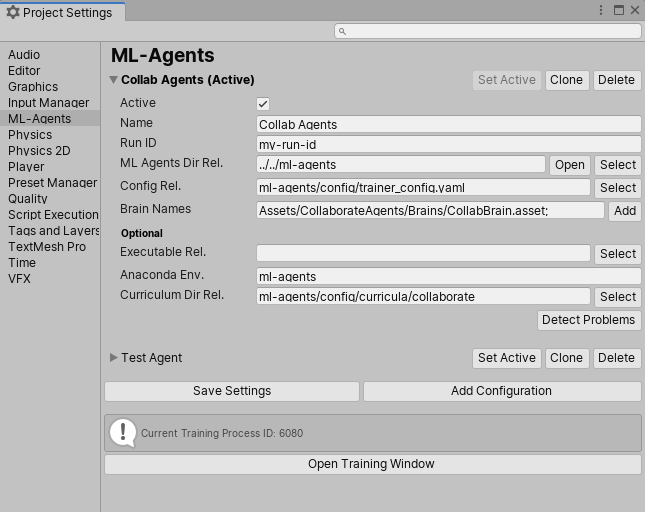
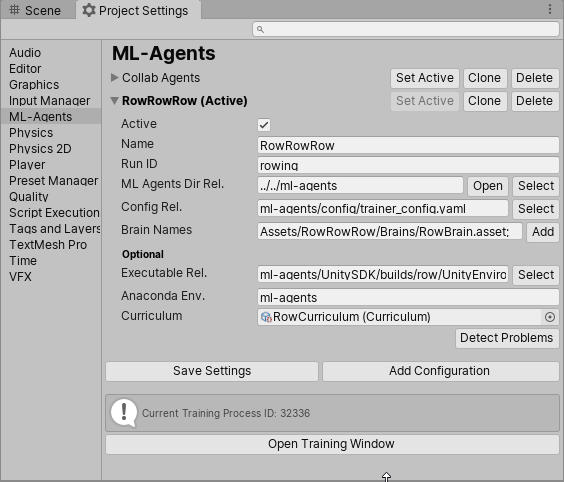
* release 0.0.5 stuff

diff --git a/README.md b/README.md
@@ -19,10 +19,10 @@ Features:
 - Run ID*: the run-id parameter
 - ML-Agents Dir Rel*: Relative Path to your project to ML-Agents root directory
 - Config Rel*: Relative Path from ML-Agents root to the yaml configuration file used for training
-- Brain Names*: Local Asset Paths to the Brains to be trained, separated by ";"
+- Brain Names*: Local Asset Paths to the Brains to be trained, separated by ";" (multi-brain training is not tested yet)
 - Executable Rel: (optional) Relative Path to the executable used for training, if none defined or not found training will run in the editor
 - Anaconda Env: (optional) Name of your anaconda environment that will activate for training
-- Curriculum Dir Rel: (optional) Relative Path from Ml-Agents root to the curriculum folder used for training
+- Curriculum: (optional) Assign a Curriculum Asset (Create/marwi/ML-Agents/Curriculum) to be used for training. The JSON will be generated when you start training from the Editor and in "curricula/<run-id>/<name_of_brain>.json" (currently only one brain is supported, it uses the first found)
 
 Detect Problems Button:
 - Checks if json files in curriculum directory (if defined) match any Brain in your project
@@ -44,5 +44,18 @@ Import the "Training Editor Preprocessors" Samples from Unity Package Manager in
 
 
 ### Training Scene Marker
-Add this script to any GameObject in your scene to Automatically set your Academy "Control" to true when Building for Training.
+Add this script to any GameObject in your scene to Automatically set your Academy "Control" to true when building
 
+### Multi Agent Training Environment Marker
+Add this script to any GameObject in your scene to automatically create multiple copy of your training environment when building
+
+### Auto Update Parameters
+When using Curriculum Learning this script automatically updates parameter names and lesson-0 values to your Academy when building
+
+
+## Limitations
+- multi brain training is not tested yet
+- visual observations are not tested/auto update is not implemented
+- imitation learning is not supported yet
+- video recorder is not supported yet
+- some training parameters are not yet exposed/supported (e.g. help, docker, keep-checkpoints, lesson, no-graphics, num-runs, save-frequency, seed, slow, worker-id)

diff --git a/CHANGELOG.md b/CHANGELOG.md
@@ -1,3 +1,6 @@
+[0.0.5] - 2019-10-19
+curriculum learning support
+auto update curriculum parameters
 
 [0.0.4] - 2019-10-19
 menu namespace cleanup
